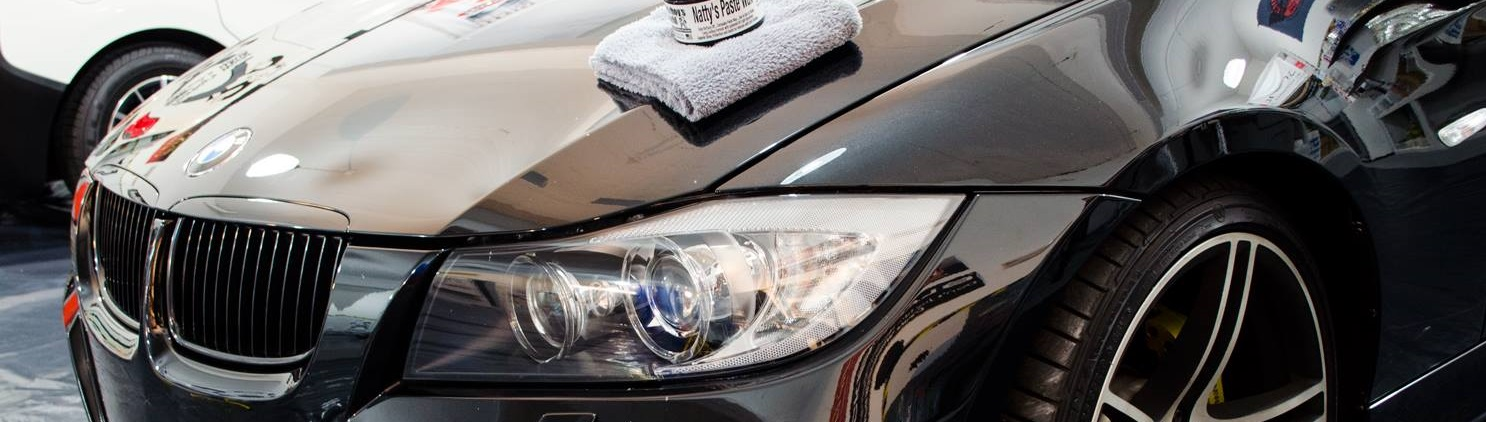
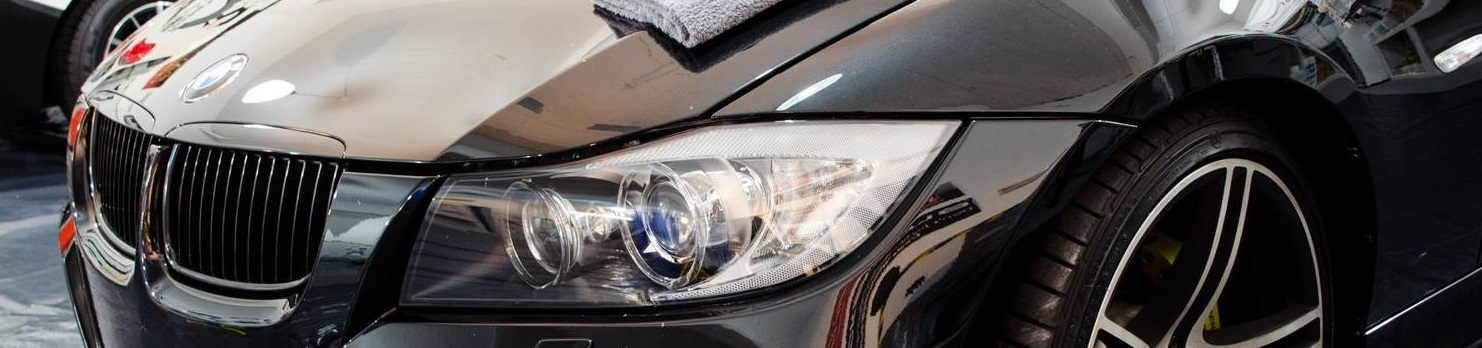
cambios varios - resenias.html 20%

diff --git a/css/style.css b/css/style.css
@@ -22,6 +22,7 @@ h1, h2, h3, h4, h5, h6 {
 .active > .nav-link {
   color: #727272 !important;
   border-bottom: #ffffff solid 1px;
+  border-top: #ffffff solid 1px;
   border-radius: .5rem; }
 
 .btn-success {
@@ -64,6 +65,21 @@ header {
   header .fa {
     font-size: 2rem;
     color: #ffffff; }
+
+.encabezado-contenido {
+  background: linear-gradient(rgba(124, 124, 124, 0.678), rgba(0, 0, 0, 0));
+  width: 100%;
+  height: 4rem;
+  margin-bottom: .5rem; }
+  .encabezado-contenido h3 {
+    padding-top: 1rem;
+    text-transform: uppercase;
+    text-align: center;
+    font-size: 2rem; }
+    @media (max-width: 721px) {
+      .encabezado-contenido h3 {
+        font-size: 1.5rem;
+        color: #000000; } }
 
 main .carousel-caption {
   background-color: rgba(0, 0, 0, 0.822); }
@@ -209,20 +225,15 @@ main h1 {
   .container-galeria .galeria__banner img {
     width: 100%;
     filter: grayscale(0.5); }
-  .container-galeria .galeria__encabezado {
-    background: linear-gradient(rgba(124, 124, 124, 0.678), rgba(0, 0, 0, 0));
-    width: 100%;
-    height: 4rem;
-    margin-bottom: .5rem; }
-    .container-galeria .galeria__encabezado h3 {
-      color: #000000;
-      padding-top: 1rem;
-      text-transform: uppercase;
-      text-align: center;
-      font-size: 2rem; }
-      @media (max-width: 721px) {
-        .container-galeria .galeria__encabezado h3 {
-          font-size: 1.5rem; } }
+  .container-galeria .galeria__encabezado h3 {
+    color: #000000;
+    padding-top: 1rem;
+    text-transform: uppercase;
+    text-align: center;
+    font-size: 2rem; }
+    @media (max-width: 721px) {
+      .container-galeria .galeria__encabezado h3 {
+        font-size: 1.5rem; } }
   .container-galeria .galeria__detallado, .container-galeria .galeria__pintura {
     width: 100%;
     margin-bottom: .5rem; }
@@ -277,7 +288,23 @@ main h1 {
         border-radius: .5rem; }
 
 .banner-resenias img {
-  width: 100%; }
+  width: 100%;
+  filter: grayscale(0.5); }
+
+.container-resenias {
+  background-color: #969696;
+  box-shadow: 0px 0px 7px 4px black;
+  border-radius: .5rem;
+  display: grid;
+  grid-template-columns: repeat(2, 1fr);
+  grid-auto-rows: 500px;
+  gap: 1rem; }
+  .container-resenias .resenias__grid {
+    background-color: #ffffff;
+    border-radius: .5rem; }
+    .container-resenias .resenias__grid img {
+      width: 100%;
+      margin: auto; }
 
 .container-banner {
   margin-bottom: -.5rem; }
@@ -290,7 +317,6 @@ main h1 {
   margin-bottom: -1.5rem;
   background-color: #969696;
   box-shadow: 0px 0px 7px 4px black;
-  margin-top: 1rem;
   display: grid;
   gap: 1rem;
   grid-template-rows: 1fr 1fr;

diff --git a/resenias.html b/resenias.html
@@ -80,7 +80,49 @@
         <img src="assets/banner-resenias.jpg" alt="Banner Reseñas">
     </div>
     
+    <div class="encabezado-contenido">
+        <h3>Comentarios de clientes</h3>
+    </div>
+
     <main>
+        <div class="container-resenias container-lg">
+            <div class="resenias__grid">
+                <div class="resenias__img">
+                    <img src="https://via.placeholder.com/500x250" alt="">
+                </div>
+                <div class="resenias__datos"></div>
+            </div>
+            <div class="resenias__grid">
+                <div class="resenias__img">
+                    <img src="https://via.placeholder.com/500x250" alt="">
+                </div>
+                <div class="resenias__datos"></div>
+            </div>
+            <div class="resenias__grid">
+                <div class="resenias__img">
+                    <img src="https://via.placeholder.com/500x250" alt="">
+                </div>
+                <div class="resenias__datos"></div>
+            </div>
+            <div class="resenias__grid">
+                <div class="resenias__img">
+                    <img src="https://via.placeholder.com/500x250" alt="">
+                </div>
+                <div class="resenias__datos"></div>
+            </div>
+            <div class="resenias__grid">
+                <div class="resenias__img">
+                    <img src="https://via.placeholder.com/500x250" alt="">
+                </div>
+                <div class="resenias__datos"></div>
+            </div>
+            <div class="resenias__grid">
+                <div class="resenias__img">
+                    <img src="https://via.placeholder.com/500x250" alt="">
+                </div>
+                <div class="resenias__datos"></div>
+            </div>
+        </div>
     </main>
 
     <footer>
@@ -117,8 +159,8 @@
                     &copy; 2021, TODOS LOS DERECHOS RESERVADOS - PAINTGARAGE
                 </div>
                 <div class="footer-redes">
-                    <a href="https://www.facebook.com/paintgarageok" class="fab fa-facebook"></a>
-                    <a href="https://www.instagram.com/paintgarageok" class="fab fa-instagram"></a>
+                    <a href="https://www.facebook.com/paintgarageok" target="blank" class="fab fa-facebook"></a>
+                    <a href="https://www.instagram.com/paintgarageok" target="blank" class="fab fa-instagram"></a>
                 </div>
             </div>
         </div>

diff --git a/index.html b/index.html
@@ -82,7 +82,6 @@
                 <ol class="carousel-indicators">
                     <li data-target="#banner" data-slide-to="0" class="active"></li>
                     <li data-target="#banner" data-slide-to="1"></li>
-                    <!--<li data-target="#banner" data-slide-to="2"></li>-->
                 </ol>
                 <div class="carousel-inner">
                     <div class="carousel-item active">
@@ -97,9 +96,6 @@
                             <h2>Realizamos trabajos a medida</h2>
                         </div>
                     </div>
-                    <!--<div class="carousel-item">
-                        <img src="" class="d-block w-100" alt="...">
-                    </div>-->
                 </div>
                 <a class="carousel-control-prev" href="#banner" role="button" data-slide="prev">
                     <span class="fas fa-arrow-left" aria-hidden="true"></span>
@@ -170,8 +166,8 @@
                     &copy; 2021, TODOS LOS DERECHOS RESERVADOS - PAINTGARAGE
                 </div>
                 <div class="footer-redes">
-                    <a href="https://www.facebook.com/paintgarageok" class="fab fa-facebook"></a>
-                    <a href="https://www.instagram.com/paintgarageok" class="fab fa-instagram"></a>
+                    <a href="https://www.facebook.com/paintgarageok" target="blank" class="fab fa-facebook"></a>
+                    <a href="https://www.instagram.com/paintgarageok" target="blank" class="fab fa-instagram"></a>
                 </div>
             </div>
         </div>

diff --git a/scss/style.scss b/scss/style.scss
@@ -24,7 +24,23 @@ header{
         font-size: 2rem;
         color: $white;
     }
+}
 
+.encabezado-contenido{
+    background: linear-gradient(rgba(124, 124, 124, 0.678), rgba(0, 0 ,0 ,0));
+    width:100%;
+    height: 4rem;
+    margin-bottom: .5rem;
+    h3{
+        padding-top: 1rem;
+        text-transform: uppercase;
+        text-align: center;
+        font-size: $fontsize * 2;
+        @include hastaMobileTablet{
+            font-size: $fontsize * 1.5;
+            color: $black;
+        }
+    }
 }
 
 // index.html
@@ -237,10 +253,6 @@ main{
     margin-bottom: -1.5rem;
     
     .galeria__encabezado{
-        background: linear-gradient(rgba(124, 124, 124, 0.678), rgba(0, 0 ,0 ,0));
-        width:100%;
-        height: 4rem;
-        margin-bottom: .5rem;
         h3{
             color: $black;
             padding-top: 1rem;
@@ -341,6 +353,27 @@ main{
 .banner-resenias{
     img{
         width: 100%;
+        filter: grayscale(0.5);
+    }
+}
+
+.container-resenias{
+    background-color: $bg-color-cajas;
+    box-shadow: $bs-cajas;
+    border-radius: .5rem;
+    display: grid;
+    grid-template-columns: repeat(2, 1fr);
+    grid-auto-rows: 500px;
+    gap: 1rem;
+
+
+    .resenias__grid{
+        background-color: $white;
+        border-radius: .5rem;
+        img{
+            width: 100%;
+            margin: auto;
+        }
     }
 }
 
@@ -384,7 +417,6 @@ main{
 
     background-color: $bg-color-cajas;
     box-shadow: $bs-cajas;
-    margin-top: 1rem;
     display: grid;
     gap: 1rem;
     grid-template-rows: 1fr 1fr;

diff --git a/servicios.html b/servicios.html
@@ -76,6 +76,14 @@
         </nav>
     </header>
 
+    <div class="banner-resenias container-fluyd">
+        <img src="assets/banner-servicios.jpg" alt="Banner Reseñas">
+    </div>
+    
+    <div class="encabezado-contenido">
+        <h3>nuestros servicios</h3>
+    </div>
+
     <main>
         <section class="section-layout-grid container-lg">
             <article class="articulo-uno">
@@ -151,8 +159,8 @@
                     &copy; 2021, TODOS LOS DERECHOS RESERVADOS - PAINTGARAGE
                 </div>
                 <div class="footer-redes">
-                    <a href="https://www.facebook.com/paintgarageok" class="fab fa-facebook"></a>
-                    <a href="https://www.instagram.com/paintgarageok" class="fab fa-instagram"></a>
+                    <a href="https://www.facebook.com/paintgarageok" target="blank" class="fab fa-facebook"></a>
+                    <a href="https://www.instagram.com/paintgarageok" target="blank" class="fab fa-instagram"></a>
                 </div>
             </div>
         </div>

diff --git a/galeria.html b/galeria.html
@@ -82,7 +82,7 @@
             </div>
 
             <div class="galeria__detallado">
-                <div class="galeria__encabezado">
+                <div class="encabezado-contenido">
                     <h3 id="Detailing">trabajos de detailing</h3>
                 </div>
                 <div class="galeria__grid container-xl">
@@ -180,8 +180,8 @@
                     &copy; 2021, TODOS LOS DERECHOS RESERVADOS - PAINTGARAGE
                 </div>
                 <div class="footer-redes">
-                    <a href="https://www.facebook.com/paintgarageok" class="fab fa-facebook"></a>
-                    <a href="https://www.instagram.com/paintgarageok" class="fab fa-instagram"></a>
+                    <a href="https://www.facebook.com/paintgarageok" target="blank" class="fab fa-facebook"></a>
+                    <a href="https://www.instagram.com/paintgarageok" target="blank" class="fab fa-instagram"></a>
                 </div>
             </div>
         </div>

diff --git a/contacto.html b/contacto.html
@@ -79,6 +79,9 @@
     <div class="container-banner container-fluyd">
         <img src="assets/banner-contacto.jpg" alt="Banner Contacto">
     </div>
+    <div class="encabezado-contenido">
+        <h3>Contactate con nosotros</h3>
+    </div>
 
     <main class="contacto container-lg">
         <div class="container-contacto ">
@@ -185,8 +188,8 @@
                     &copy; 2021, TODOS LOS DERECHOS RESERVADOS - PAINTGARAGE
                 </div>
                 <div class="footer-redes">
-                    <a href="https://www.facebook.com/paintgarageok" class="fab fa-facebook"></a>
-                    <a href="https://www.instagram.com/paintgarageok" class="fab fa-instagram"></a>
+                    <a href="https://www.facebook.com/paintgarageok" target="blank" class="fab fa-facebook"></a>
+                    <a href="https://www.instagram.com/paintgarageok" target="blank" class="fab fa-instagram"></a>
                 </div>
             </div>
         </div>

diff --git a/scss/presets.scss b/scss/presets.scss
@@ -22,6 +22,7 @@ h1,h2,h3,h4,h5,h6{ font-family: 'BioRhyme', serif; }
 .active > .nav-link{
     color: $grey !important ;
     border-bottom: $white solid 1px;
+    border-top: $white solid 1px;
     border-radius: .5rem;
 }
 
